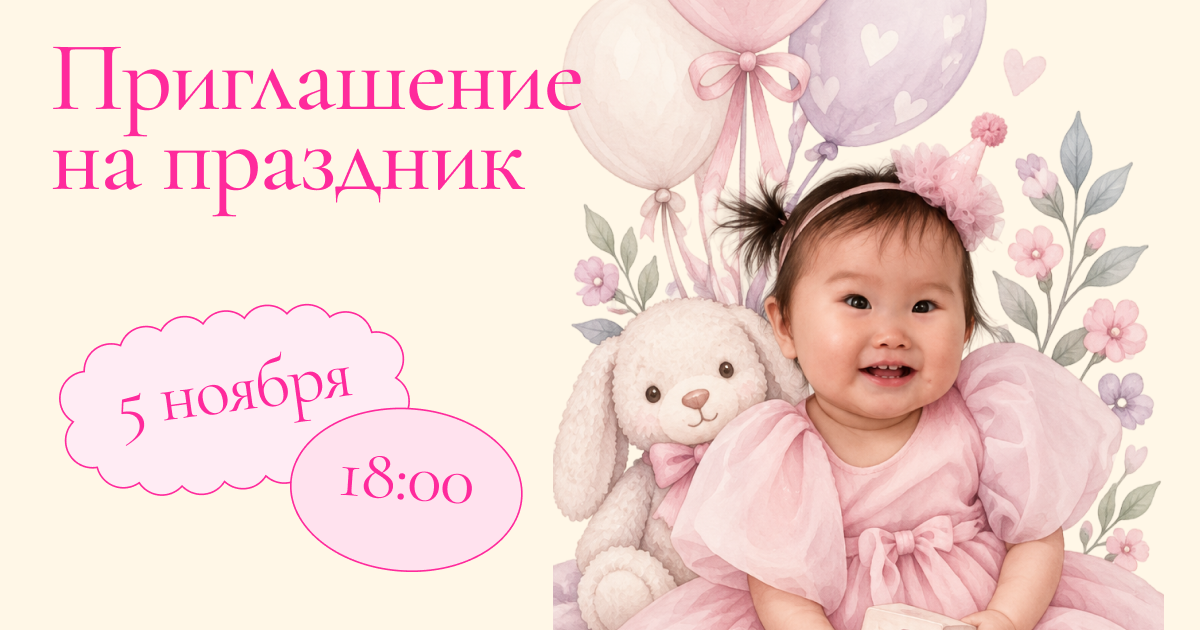
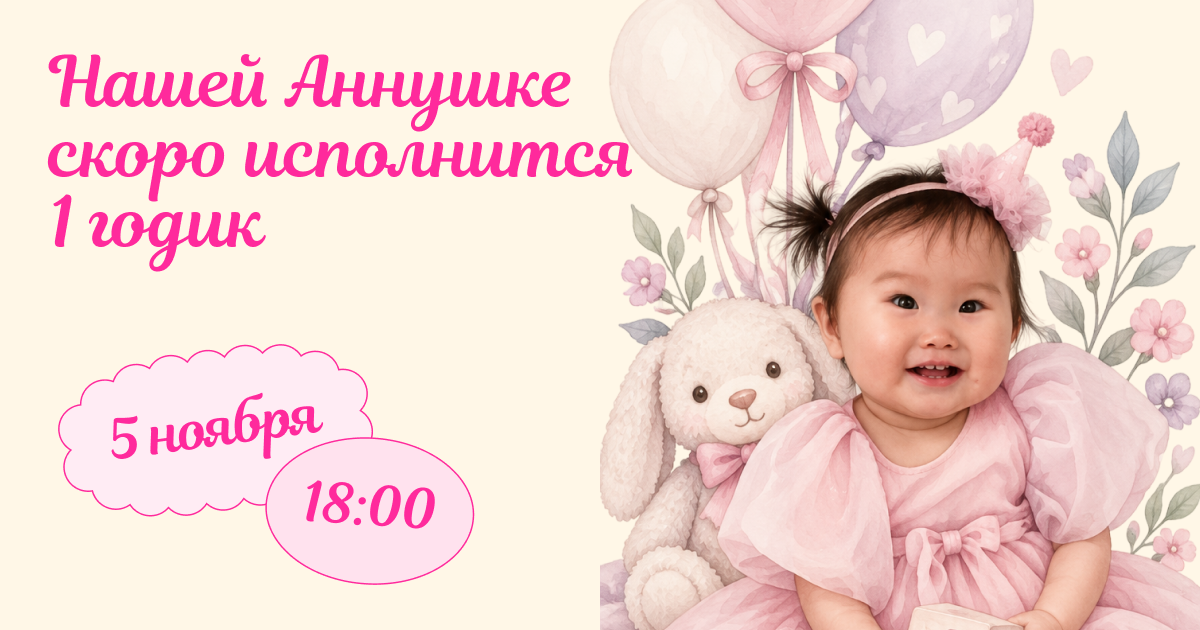
Новая OG-картинка

diff --git a/index.html b/index.html
@@ -9,7 +9,7 @@
   <meta property="og:description" content="Приглашаем вас разделить с нами этот особенный день — 5 ноября, 17:00">
   <meta property="og:type" content="website">
   <meta property="og:url" content="https://event-inv.github.io/annushka-1year/">
-  <meta property="og:image" content="https://event-inv.github.io/annushka-1year/og.png">
+  <meta property="og:image" content="https://event-inv.github.io/annushka-1year/og.png?v=2">
   <meta property="og:image:width" content="1200">
   <meta property="og:image:height" content="630">
   <meta name="twitter:card" content="summary_large_image">
